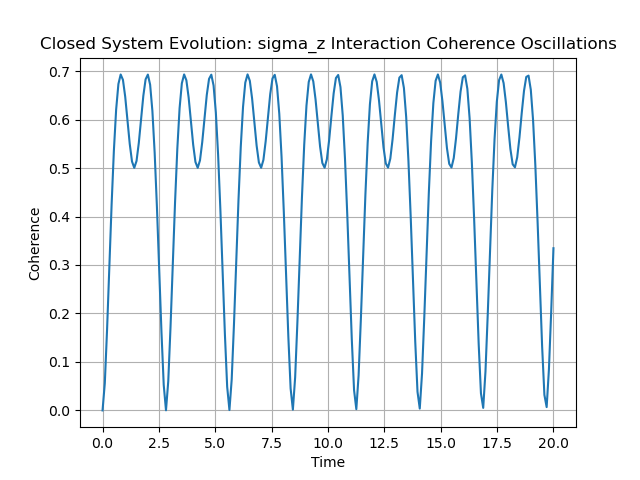
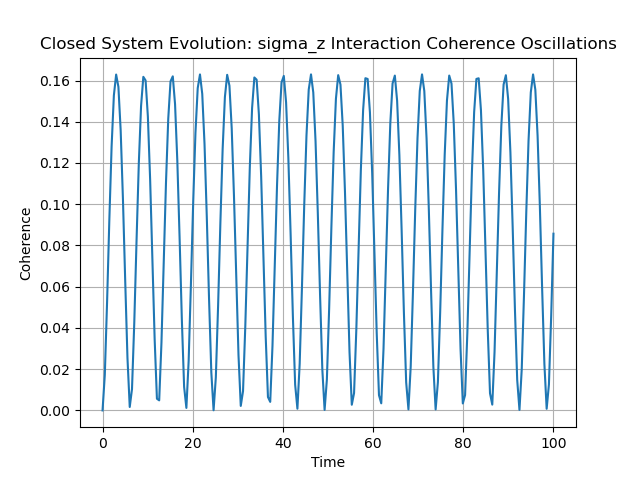
Completes refactorisation for finer control of simulation.

diff --git a/Research Project/Code/Open_SigZ_Sim.py b/Research Project/Code/Open_SigZ_Sim.py
@@ -1,11 +1,16 @@
 from TLSQHOSimulator import TLSQHOSimulator
 import qutip as q
 import numpy as np
-from scipy.constants import k as k_B
+from scipy.constants import k as K_B, h
+
+
+############################## SETUP ######################################
+
+tlist = np.linspace(0.0, 50.0, 2000)
 
 # constants
 w = 1.0
-g = 1.0
+g = 0.1  # Weak coupling
 N = 2
 
 # Bases
@@ -30,60 +35,50 @@ H = (
     + g * q.tensor(-1 * q.sigmaz(), q.destroy(N).dag() + q.destroy(N))
 )
 
-# Closed Dynamics
-sim_closed = TLSQHOSimulator(H, psi0)
-results_closed = sim_closed.evolve()
-vne_closed = sim_closed.vne(results_closed)
-coherence_closed = sim_closed.rel_coherence(results_closed)
+########################## OPEN SIM SETUP #################################
 
-# Open Dynamics (Spontaneous Emission)
-gamma = np.sqrt(0.1)
+# Constants
+gamma = 0.01
+gamma_th = 0.01
+T_K = 1  # avg T in Kelvin
+T = (K_B * T_K) / (
+    h * 1e9
+)  # T in natural units, using (K_b/ h * freq) as a conversion factor
+n_omega = 1 / (np.exp(w / T) - 1)
+
+# Operators
+e_ops = [adag * a, s_raise * s_lower]
 
 L_tls = [gamma * s_lower]
-times_open = np.linspace(0.0, 500.0, 200)
-e_ops = [adag * a, s_raise * s_lower]
-sim_open_tls = TLSQHOSimulator(H, psi0, L_tls, e_ops, times_open)
+L_qho = [
+    gamma_th * (n_omega + 1) * a,  # photon loss
+    gamma_th * n_omega * adag,  # photon gain
+]
+
+############################ SIMULATION ###################################
+
+# TLS
+sim_open_tls = TLSQHOSimulator(H, psi0, L_tls, e_ops, times=tlist)
 results_open_tls = sim_open_tls.evolve()
 expect_open_tls = sim_open_tls.expect(results_open_tls)
 
-# Open Dynamics (QHO Photon Loss)
-gamma_th = 0.1
-T = 300  # avg T in Kelvin
-n_omega = 1 / (np.exp(w / (k_B * T)) - 1)
-
-
-L_qho = [gamma_th * (n_omega + 1) * a, gamma_th * N * adag]
-sim_open_qho = TLSQHOSimulator(H, psi0, L_qho, e_ops, times_open)
+# QHO
+sim_open_qho = TLSQHOSimulator(H, psi0, L_qho, e_ops, times=tlist)
 results_open_qho = sim_open_qho.evolve()
 expect_open_qho = sim_open_qho.expect(results_open_qho)
 
+# TLS + QHO
 L_tlsqho = L_tls + L_qho
-sim_open_tlsqho = TLSQHOSimulator(H, psi0, L_tlsqho, e_ops)
+sim_open_tlsqho = TLSQHOSimulator(H, psi0, L_tlsqho, e_ops, times=tlist)
 results_open_tlsqho = sim_open_tlsqho.evolve()
 expect_open_tlsqho = sim_open_tlsqho.expect(results_open_tlsqho)
 
-sim_closed.plot(
-    vne_closed,
-    "Closed System Evolution: sigma_z Interaction Entanglement Oscillations",
-    "Entanglement",
-    "CQS_ent",
-    "SigZ",
-    legend=None,
-)
-sim_closed.plot(
-    coherence_closed,
-    "Closed System Evolution: sigma_z Interaction Coherence Oscillations",
-    "Coherence",
-    "CQS_coh",
-    "SigZ",
-    legend=None,
-)
-
+############################### PLOTS #####################################
 sim_open_tls.plot(
     expect_open_tls,
     "Open System Evolution: sigma_z Interaction Dynamics of Spontaneous Atomic Emission",
     "Expectation Values",
-    "TLS_Decay",
+    "OQS_TLS_Decay",
     "SigZ",
     ["cavity photon number", "atom excitation probability"],
 )

diff --git a/Research Project/Code/Closed_SigZ_Sim.py b/Research Project/Code/Closed_SigZ_Sim.py
@@ -1,0 +1,62 @@
+from TLSQHOSimulator import TLSQHOSimulator
+import qutip as q
+import numpy as np
+
+############################## SETUP ######################################
+
+tlist = np.linspace(0.0, 100.0, 200)
+
+# constants
+w = 1.0
+g = 0.1  # Weak coupling
+N = 2
+
+# Bases
+basis_atom_e = q.basis(2, 0)
+basis_qho_0 = q.basis(N, 0)
+
+
+# Operators
+a = q.tensor(q.qeye(2), q.destroy(N))
+adag = a.dag()
+s_z = q.tensor(q.sigmaz(), q.qeye(N))
+s_lower = q.tensor(q.sigmam(), q.qeye(N))
+s_raise = s_lower.dag()
+
+
+#  Hamiltonian with SigmaZ Interaction
+H = (
+    0.5 * w * s_z
+    + w * (adag * a + 0.5)
+    + g * q.tensor(-1 * q.sigmaz(), q.destroy(N).dag() + q.destroy(N))
+)
+
+# Init cond
+psi0 = q.tensor(basis_atom_e, basis_qho_0)
+
+############################ SIMULATION ###################################
+
+sim_closed = TLSQHOSimulator(H, psi0, times=tlist)
+results_closed = sim_closed.evolve()
+vne_closed = sim_closed.vne(results_closed)
+coherence_closed = sim_closed.rel_coherence(results_closed)
+
+
+############################### PLOTS #####################################
+
+sim_closed.plot(
+    vne_closed,
+    "Closed System Evolution: sigma_z Interaction Entanglement Oscillations",
+    "Entanglement",
+    "CQS_ent",
+    "SigZ",
+    legend=None,
+)
+sim_closed.plot(
+    coherence_closed,
+    "Closed System Evolution: sigma_z Interaction Coherence Oscillations",
+    "Coherence",
+    "CQS_coh",
+    "SigZ",
+    legend=None,
+)
